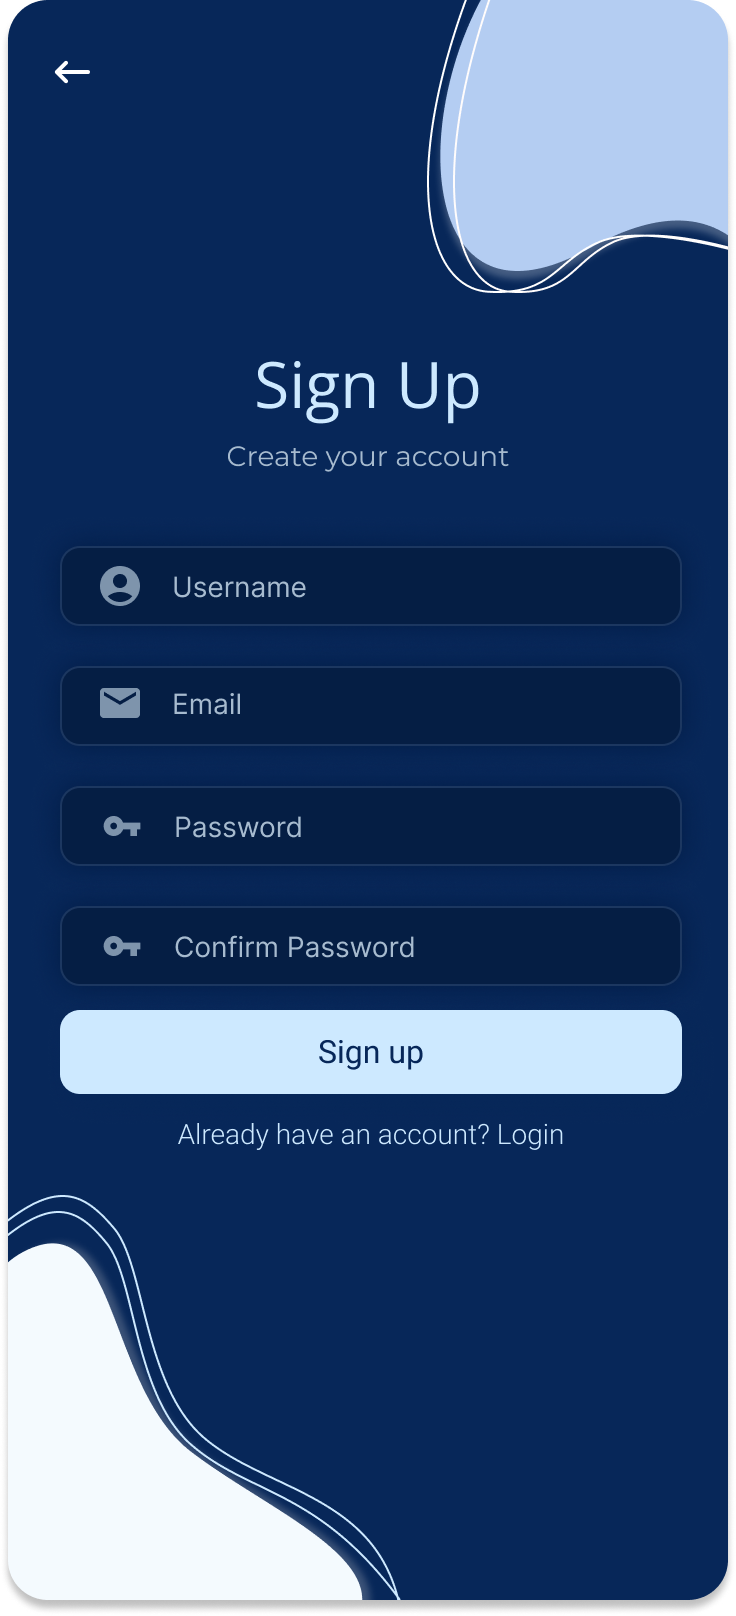
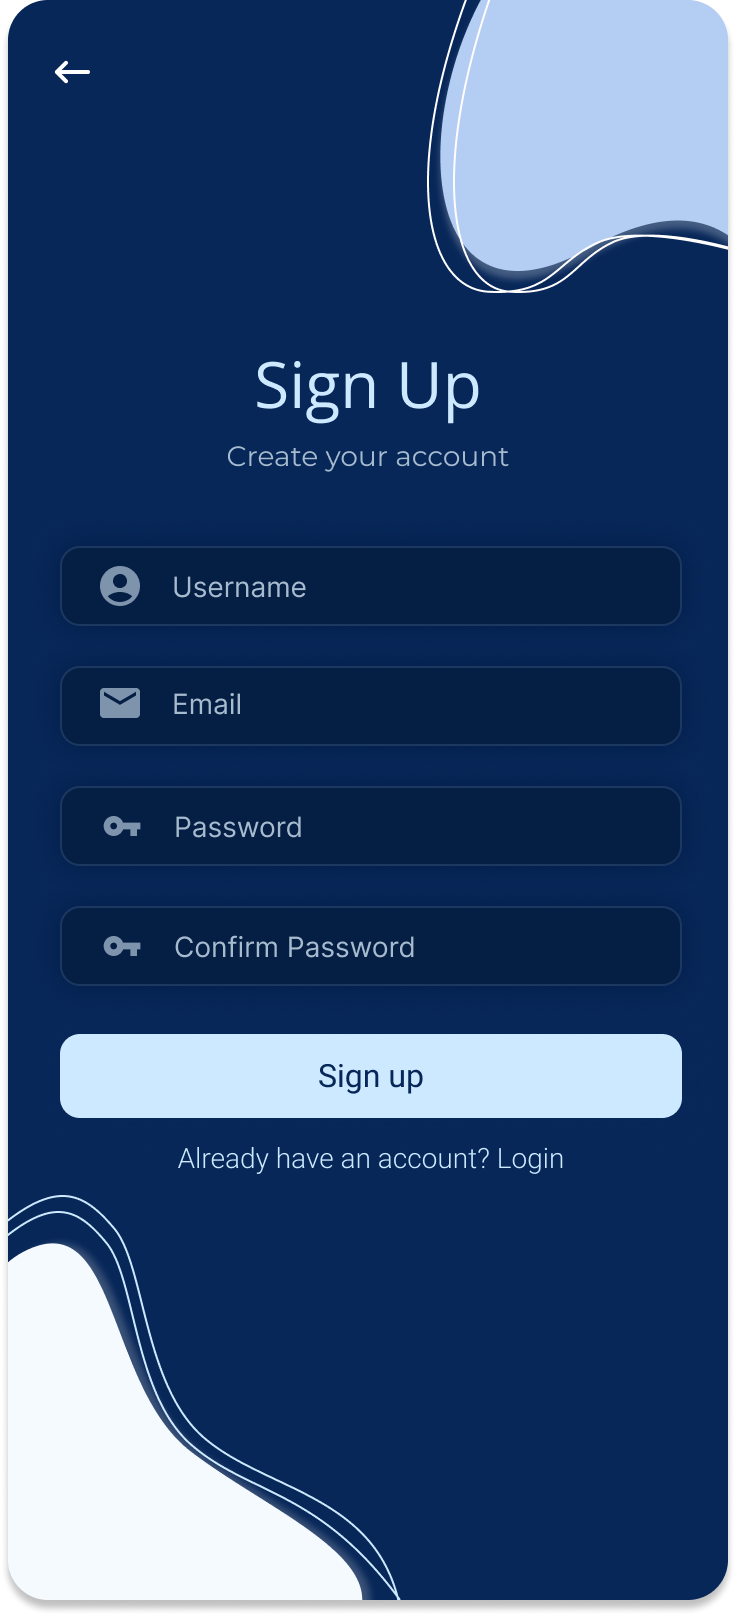
optimized collapsed sidebar

Changed region(s): [[0.0625, 0.6188, 0.9375, 0.7426]]

diff --git a/src/components/project.tsx b/src/components/project.tsx
@@ -2,6 +2,8 @@ import React, { useState, useEffect, useCallback, useRef } from "react";
 import { motion, AnimatePresence } from "framer-motion";
 import { ExternalLink, Github, Smartphone, Layout, Monitor, X, ZoomIn, ChevronLeft, ChevronRight, FileText, Hourglass, PanelRightClose, PanelRightOpen, ArrowUpRight } from "lucide-react";
 
+
+
 // Luxury Color Palette
 const COLORS = {
   bg: "#F5EDE4",
@@ -314,8 +316,8 @@ const Project: React.FC = () => {
 
   const currentData = PROJECT_CONTENT[activeProject];
 
-  // Sidebar width constants (6vw for minimal width)
-  const COLLAPSED_WIDTH = "6vw";
+  // Sidebar width constants - INCREASED WIDTH FOR MOBILE
+  const COLLAPSED_WIDTH = "11vw"; // Increased from 6vw
   const EXPANDED_WIDTH = "72vw";
 
   // Scroll to top on mount
@@ -474,11 +476,11 @@ const Project: React.FC = () => {
           }}
           style={{ 
             backgroundColor: COLORS.cream,
-            borderLeft: `1px solid ${COLORS.roseGold}50`,
-            borderTop: `1px solid ${COLORS.roseGold}50`,
-            borderBottom: `1px solid ${COLORS.roseGold}50`,
+            borderLeft: `1px solid ${COLORS.roseGold}20`,
+            borderTop: `1px solid ${COLORS.roseGold}20`,
+            borderBottom: `1px solid ${COLORS.roseGold}20`,
             borderRight: "none",
-            borderRadius: "10px 0 0 10px",
+            borderRadius: "24px 0 0 24px", // MORE ROUNDED CORNERS
             boxShadow: "-4px 0 20px rgba(45, 22, 26, 0.05)",
             top: "4rem",
             height: "calc(100dvh - 4rem)",
@@ -487,10 +489,10 @@ const Project: React.FC = () => {
         >
           <div className="h-full flex flex-col pt-6 overflow-hidden">
             
-            {/* Toggle Button */}
+            {/* Toggle Button - ENLARGED */}
             <button
               onClick={() => setIsMobileSidebarExpanded(!isMobileSidebarExpanded)}
-              className="absolute top-3 -left-3 z-50 w-6 h-6 rounded-full flex items-center justify-center shadow-lg transition-all duration-300 hover:scale-110 active:scale-95"
+              className="absolute top-4 -left-5 z-50 w-10 h-10 rounded-full flex items-center justify-center shadow-lg transition-all duration-300 hover:scale-110 active:scale-95"
               style={{ 
                 backgroundColor: COLORS.roseGold,
                 color: COLORS.white,
@@ -502,7 +504,8 @@ const Project: React.FC = () => {
                 animate={{ rotate: isMobileSidebarExpanded ? 180 : 0 }}
                 transition={{ duration: 0.3 }}
               >
-                {isMobileSidebarExpanded ? <PanelRightClose size={12} /> : <PanelRightOpen size={12} />}
+                {/* ENLARGED ICON */}
+                {isMobileSidebarExpanded ? <PanelRightClose size={20} /> : <PanelRightOpen size={20} />}
               </motion.div>
             </button>
 
@@ -517,29 +520,29 @@ const Project: React.FC = () => {
                     animate={{ opacity: 1 }}
                     exit={{ opacity: 0 }}
                     transition={{ duration: 0.2 }}
-                    className="flex flex-col items-center gap-2 pt-4"
+                    className="flex flex-col items-center gap-2 pt-8"
                   >
                     {NAVIGATION.map((group, groupIndex) => (
-                      <div key={group.category} className="flex flex-col items-center gap-1 mb-3">
+                      <div key={group.category} className="flex flex-col items-center gap-1 mb-4">
                         <div 
-                          className="w-6 h-6 rounded-lg flex items-center justify-center opacity-60"
+                          className="w-8 h-8 rounded-lg flex items-center justify-center opacity-60"
                           style={{ 
                             backgroundColor: `${COLORS.goldLight}30`,
                             color: COLORS.burgundy
                           }}
                           title={group.category}
                         >
-                          {React.cloneElement(group.icon, { size: 12 })}
+                          {React.cloneElement(group.icon, { size: 16 })}
                         </div>
                         
-                        <div className="flex flex-col gap-1 mt-1">
+                        <div className="flex flex-col gap-1.5 mt-1.5">
                           {group.projects.map((pid) => (
                             <button
                               key={pid}
                               onClick={() => {
                                 if (activeProject !== pid) setActiveProject(pid);
                               }}
-                              className="w-2 h-2 rounded-full transition-all duration-300 hover:scale-150"
+                              className="w-2.5 h-2.5 rounded-full transition-all duration-300 hover:scale-150"
                               style={{ 
                                 backgroundColor: activeProject === pid ? COLORS.roseGold : `${COLORS.burgundy}30`,
                                 boxShadow: activeProject === pid ? `0 0 6px ${COLORS.roseGold}60` : 'none'
@@ -551,7 +554,7 @@ const Project: React.FC = () => {
                         
                         {groupIndex < NAVIGATION.length - 1 && (
                           <div 
-                            className="w-4 h-px mt-2"
+                            className="w-5 h-px mt-3"
                             style={{ backgroundColor: `${COLORS.goldLight}40` }}
                           />
                         )}
